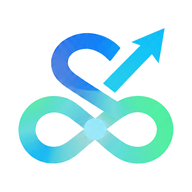
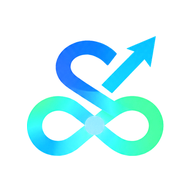
App instalable (PWA): manifiesto, service worker, íconos, botón Instalar y aviso sin conexión
Claude-Session: https://claude.ai/code/session_01DEXCAZWtKcLJSgCDEnVjGu

Changed region(s): [[0.0938, 0.125, 0.9062, 0.875]]

diff --git a/index.html b/index.html
@@ -5,7 +5,11 @@
 <meta name="theme-color" content="#0b7a5a">
 <title>Surtify · Caja</title>
 <link rel="icon" type="image/png" href="assets/favicon.png">
-<link rel="apple-touch-icon" href="assets/icon-192.png">
+<link rel="apple-touch-icon" href="assets/apple-touch-icon.png">
+<link rel="manifest" href="manifest.webmanifest">
+<meta name="mobile-web-app-capable" content="yes">
+<meta name="apple-mobile-web-app-capable" content="yes">
+<meta name="apple-mobile-web-app-title" content="Surtify">
 <style>
 :root{color-scheme:light dark;--bg:#f4f6f8;--card:#fff;--tx:#18202a;--mu:#667085;--pr:#0b7a5a;--on:#fff;--bd:#e2e6ea;--er:#b42318;--ok:#067647;--wa:#b54708;--wab:#fffaeb}
 @media(prefers-color-scheme:dark){:root{--bg:#10151b;--card:#19202a;--tx:#edf0f3;--mu:#98a2b3;--pr:#2fb386;--on:#06241a;--bd:#2a323d;--er:#f97066;--ok:#47cd89;--wa:#fdb022;--wab:#2a2110}}
@@ -21,6 +25,8 @@ input[type=checkbox]{width:auto;margin:0 6px 0 0}
 label{display:block;font-size:.9rem}
 button{font:inherit;border:0;border-radius:10px;padding:12px 16px;background:var(--pr);color:var(--on);font-weight:600;cursor:pointer}
 button.g{background:transparent;color:var(--tx);border:1px solid var(--bd)}button.s{padding:6px 12px}button:disabled{opacity:.5}
+[hidden]{display:none!important}
+.off{position:sticky;top:0;z-index:5;background:var(--wab);color:var(--wa);border-bottom:1px solid var(--bd);padding:8px 12px;text-align:center;font-size:.9rem}
 .hd{display:flex;align-items:center;gap:8px;margin:2px 0 4px}.logo{height:38px;width:auto;display:block}.who{margin:0 0 12px}
 .login{max-width:420px;margin:9vh auto 0}.logo-l{display:block;width:min(260px,70%);height:auto;margin:6px auto 4px}
 .tabs{display:flex;gap:6px;margin:12px 0;overflow-x:auto}.tabs button{background:var(--card);color:var(--tx);border:1px solid var(--bd);white-space:nowrap}
@@ -83,11 +89,11 @@ function login(){
   app.innerHTML=`<div class="login"><div class="card"><img class="logo-l" src="assets/logo.png" alt="Surtify"><p class="mu" style="text-align:center">Caja registradora simple</p>
   <label>Correo<input id="em" type="email" autocomplete="username"></label>
   <label>Contraseña<input id="pw" type="password" autocomplete="current-password"></label>
-  <button id="go" style="width:100%">Entrar</button></div></div>`;
+  <button id="go" style="width:100%">Entrar</button><button class="g s" id="ins" hidden style="width:100%;margin-top:8px">Instalar app en este dispositivo</button></div></div>`;
   const go=async()=>{
     const {error}=await db.auth.signInWithPassword({email:$('#em').value.trim(),password:$('#pw').value});
     if(error){toast('Correo o contraseña incorrectos',true)}else{boot()}};
-  $('#go').onclick=go;
+  $('#go').onclick=go;btnInstalar();
   $('#pw').addEventListener('keydown',e=>{if(e.key==='Enter')go()});
 }
 
@@ -105,7 +111,7 @@ async function refresh(){
 }
 
 function head(){
-  return `<div class="hd"><img class="logo" src="assets/logo.png" alt="Surtify"><span class="sp"></span><button class="g s" id="lo">Salir</button></div>
+  return `<div class="hd"><img class="logo" src="assets/logo.png" alt="Surtify"><span class="sp"></span><button class="g s" id="ins" hidden>Instalar app</button><button class="g s" id="lo">Salir</button></div>
   <div class="mu who">${esc(perfil.nombre_comercial)} · ${esc(perfil.nombre_sucursal)} · ${esc(perfil.nombre)} · ${adm?'Modo ERP multisede':'Caja simple'}</div>`;
 }
 function setBadge(){const b=app.querySelector('[data-t="inv"]');if(b)b.innerHTML='Inventario'+(invAlertas?` <span class="badge">${invAlertas}</span>`:'')}
@@ -119,7 +125,7 @@ function bindOpen(){
 
 function render(){
   const h=head();
-  if(!adm&&!caja){app.innerHTML=h+openCard();$('#lo').onclick=logout;bindOpen();return}
+  if(!adm&&!caja){app.innerHTML=h+openCard();$('#lo').onclick=logout;btnInstalar();bindOpen();return}
   const tabs=adm?[['panel','Panel'],['inv','Inventario'+(invAlertas?` <span class="badge">${invAlertas}</span>`:'')],['vender','Vender'],['facturas','Facturas'],['fiados','Fiados'],['devolver','Devolver'],['gasto','Gasto'],['reporte','Reporte'],['cerrar','Cerrar caja']]
                 :[['vender','Vender'],['facturas','Mis ventas'],['fiados','Fiados'],['devolver','Devolver'],['gasto','Gasto'],['reporte','Reporte'],['cerrar','Cerrar caja']];
   const deCaja=['vender','devolver','gasto','cerrar'].includes(tab);
@@ -128,7 +134,7 @@ function render(){
     <div><span class="mu">${caja.num_ventas===1?'Venta':'Ventas'} (${caja.num_ventas})</span><b>${cop(caja.total_ventas)}</b></div>
     <div><span class="mu">Gastos</span><b>${cop(caja.total_gastos)}</b></div></div>`:'')+
     `<div class="tabs">${tabs.map(t=>`<button data-t="${t[0]}" class="${tab===t[0]?'on':''}">${t[1]}</button>`).join('')}</div><div id="body"></div>`;
-  $('#lo').onclick=logout;
+  $('#lo').onclick=logout;btnInstalar();
   app.querySelectorAll('[data-t]').forEach(b=>{b.onclick=()=>{tab=b.dataset.t;render()}});
   if(deCaja&&!caja){$('#body').innerHTML=openCard();bindOpen();return}
   ({panel:vPanel,inv:vInv,vender:vVender,facturas:vFacturas,fiados:vFiados,devolver:vDevolver,gasto:vGasto,reporte:vReporte,cerrar:vCerrar})[tab]();
@@ -517,5 +523,28 @@ async function vPanel(){
   $('#rf').onclick=()=>{vPanel()};
   app.querySelectorAll('[data-al]').forEach(b=>{b.onclick=()=>{invSuc=b.dataset.al;invSolo=true;invQ='';tab='inv';render()}});
 }
+
+/* ---------- App instalable (PWA) ---------- */
+let instalar=null;
+const esIOS=/iphone|ipad|ipod/i.test(navigator.userAgent)&&!window.MSStream;
+const instalada=()=>(window.matchMedia&&window.matchMedia('(display-mode: standalone)').matches)||navigator.standalone===true;
+function btnInstalar(){
+  const b=document.getElementById('ins');if(!b)return;
+  if(instalada()||(!instalar&&!esIOS)){b.hidden=true;return}
+  b.hidden=false;
+  b.onclick=async()=>{
+    if(instalar){instalar.prompt();await instalar.userChoice;instalar=null;btnInstalar()}
+    else{const m=modal('<h2>Instalar Surtify</h2><p>En iPhone o iPad: toca el botón <b>Compartir</b> de Safari y elige <b>Agregar a inicio</b>.</p><button id="ix" style="width:100%">Entendido</button>');m.querySelector('#ix').onclick=()=>m.remove()}};
+}
+window.addEventListener('beforeinstallprompt',e=>{e.preventDefault();instalar=e;btnInstalar()});
+window.addEventListener('appinstalled',()=>{instalar=null;toast('Surtify quedó instalada');btnInstalar()});
+function avisoRed(){
+  let b=document.getElementById('off');
+  if(navigator.onLine){if(b)b.remove();return}
+  if(!b){b=document.createElement('div');b.id='off';b.className='off';b.textContent='Sin conexión: puedes ver la app, pero vender y consultar datos necesita internet.';document.body.prepend(b)}
+}
+window.addEventListener('online',avisoRed);window.addEventListener('offline',avisoRed);
+if('serviceWorker' in navigator&&location.protocol.startsWith('http'))window.addEventListener('load',()=>navigator.serviceWorker.register('sw.js').catch(()=>{}));
+avisoRed();
 init();
 </script></body></html>

diff --git a/sw.js b/sw.js
@@ -1,0 +1,28 @@
+/* Surtify · service worker
+   - Guarda la "cáscara" de la app para que abra sin internet.
+   - NUNCA guarda llamadas a Supabase (datos, ventas, sesión): esas siempre van a la red.
+   - Páginas: primero la red (para recibir actualizaciones) y, si falla, la copia guardada. */
+const V = 'surtify-v1';
+const SHELL = ['./', 'index.html', 'config.js', 'manifest.webmanifest', 'assets/logo.png', 'assets/favicon.png',
+  'assets/icon-192.png', 'assets/icon-512.png', 'assets/apple-touch-icon.png',
+  'https://cdn.jsdelivr.net/npm/@supabase/supabase-js@2.45.4/dist/umd/supabase.min.js'];
+
+self.addEventListener('install', e => {
+  e.waitUntil(caches.open(V).then(c => Promise.all(SHELL.map(u => c.add(u).catch(() => {})))).then(() => self.skipWaiting()));
+});
+self.addEventListener('activate', e => {
+  e.waitUntil(caches.keys().then(ks => Promise.all(ks.filter(k => k !== V).map(k => caches.delete(k)))).then(() => self.clients.claim()));
+});
+self.addEventListener('fetch', e => {
+  const r = e.request, u = new URL(r.url);
+  if (r.method !== 'GET') return;
+  if (u.hostname.endsWith('supabase.co')) return;                     // datos: siempre red
+  const mismo = u.origin === location.origin, cdn = u.hostname === 'cdn.jsdelivr.net';
+  if (!mismo && !cdn) return;
+  if (r.mode === 'navigate' || (mismo && /(index\.html|config\.js)$/.test(u.pathname))) {
+    e.respondWith(fetch(r).then(res => { const cp = res.clone(); caches.open(V).then(c => c.put(r, cp)); return res; })
+      .catch(() => caches.match(r).then(m => m || caches.match('index.html'))));
+    return;
+  }
+  e.respondWith(caches.match(r).then(m => m || fetch(r).then(res => { const cp = res.clone(); caches.open(V).then(c => c.put(r, cp)); return res; })));
+});

diff --git a/README.md b/README.md
@@ -12,3 +12,10 @@
 4. Abre `https://TU-USUARIO.github.io/NOMBRE-DEL-REPO/` e inicia sesión.
 
 Recuerda: los proyectos gratis de Supabase se pausan tras 7 días sin actividad; reactívalo antes de la sustentación.
+
+## Instalar como app (PWA)
+Surtify es una aplicación web instalable: `manifest.webmanifest`, `sw.js` e íconos en `assets/`.
+- **Android / Chrome / Edge:** botón "Instalar app" dentro de Surtify (o menú ⋮ → "Instalar aplicación").
+- **iPhone / iPad:** en Safari, Compartir → "Agregar a inicio".
+- El service worker guarda la interfaz para que la app abra sin internet, pero **no** guarda datos ni ventas: vender y consultar requieren conexión (el modo sin conexión con sincronización queda como siguiente etapa).
+- Al cambiar `index.html`, sube la versión `V` en `sw.js` si quieres forzar la renovación de la copia guardada.
